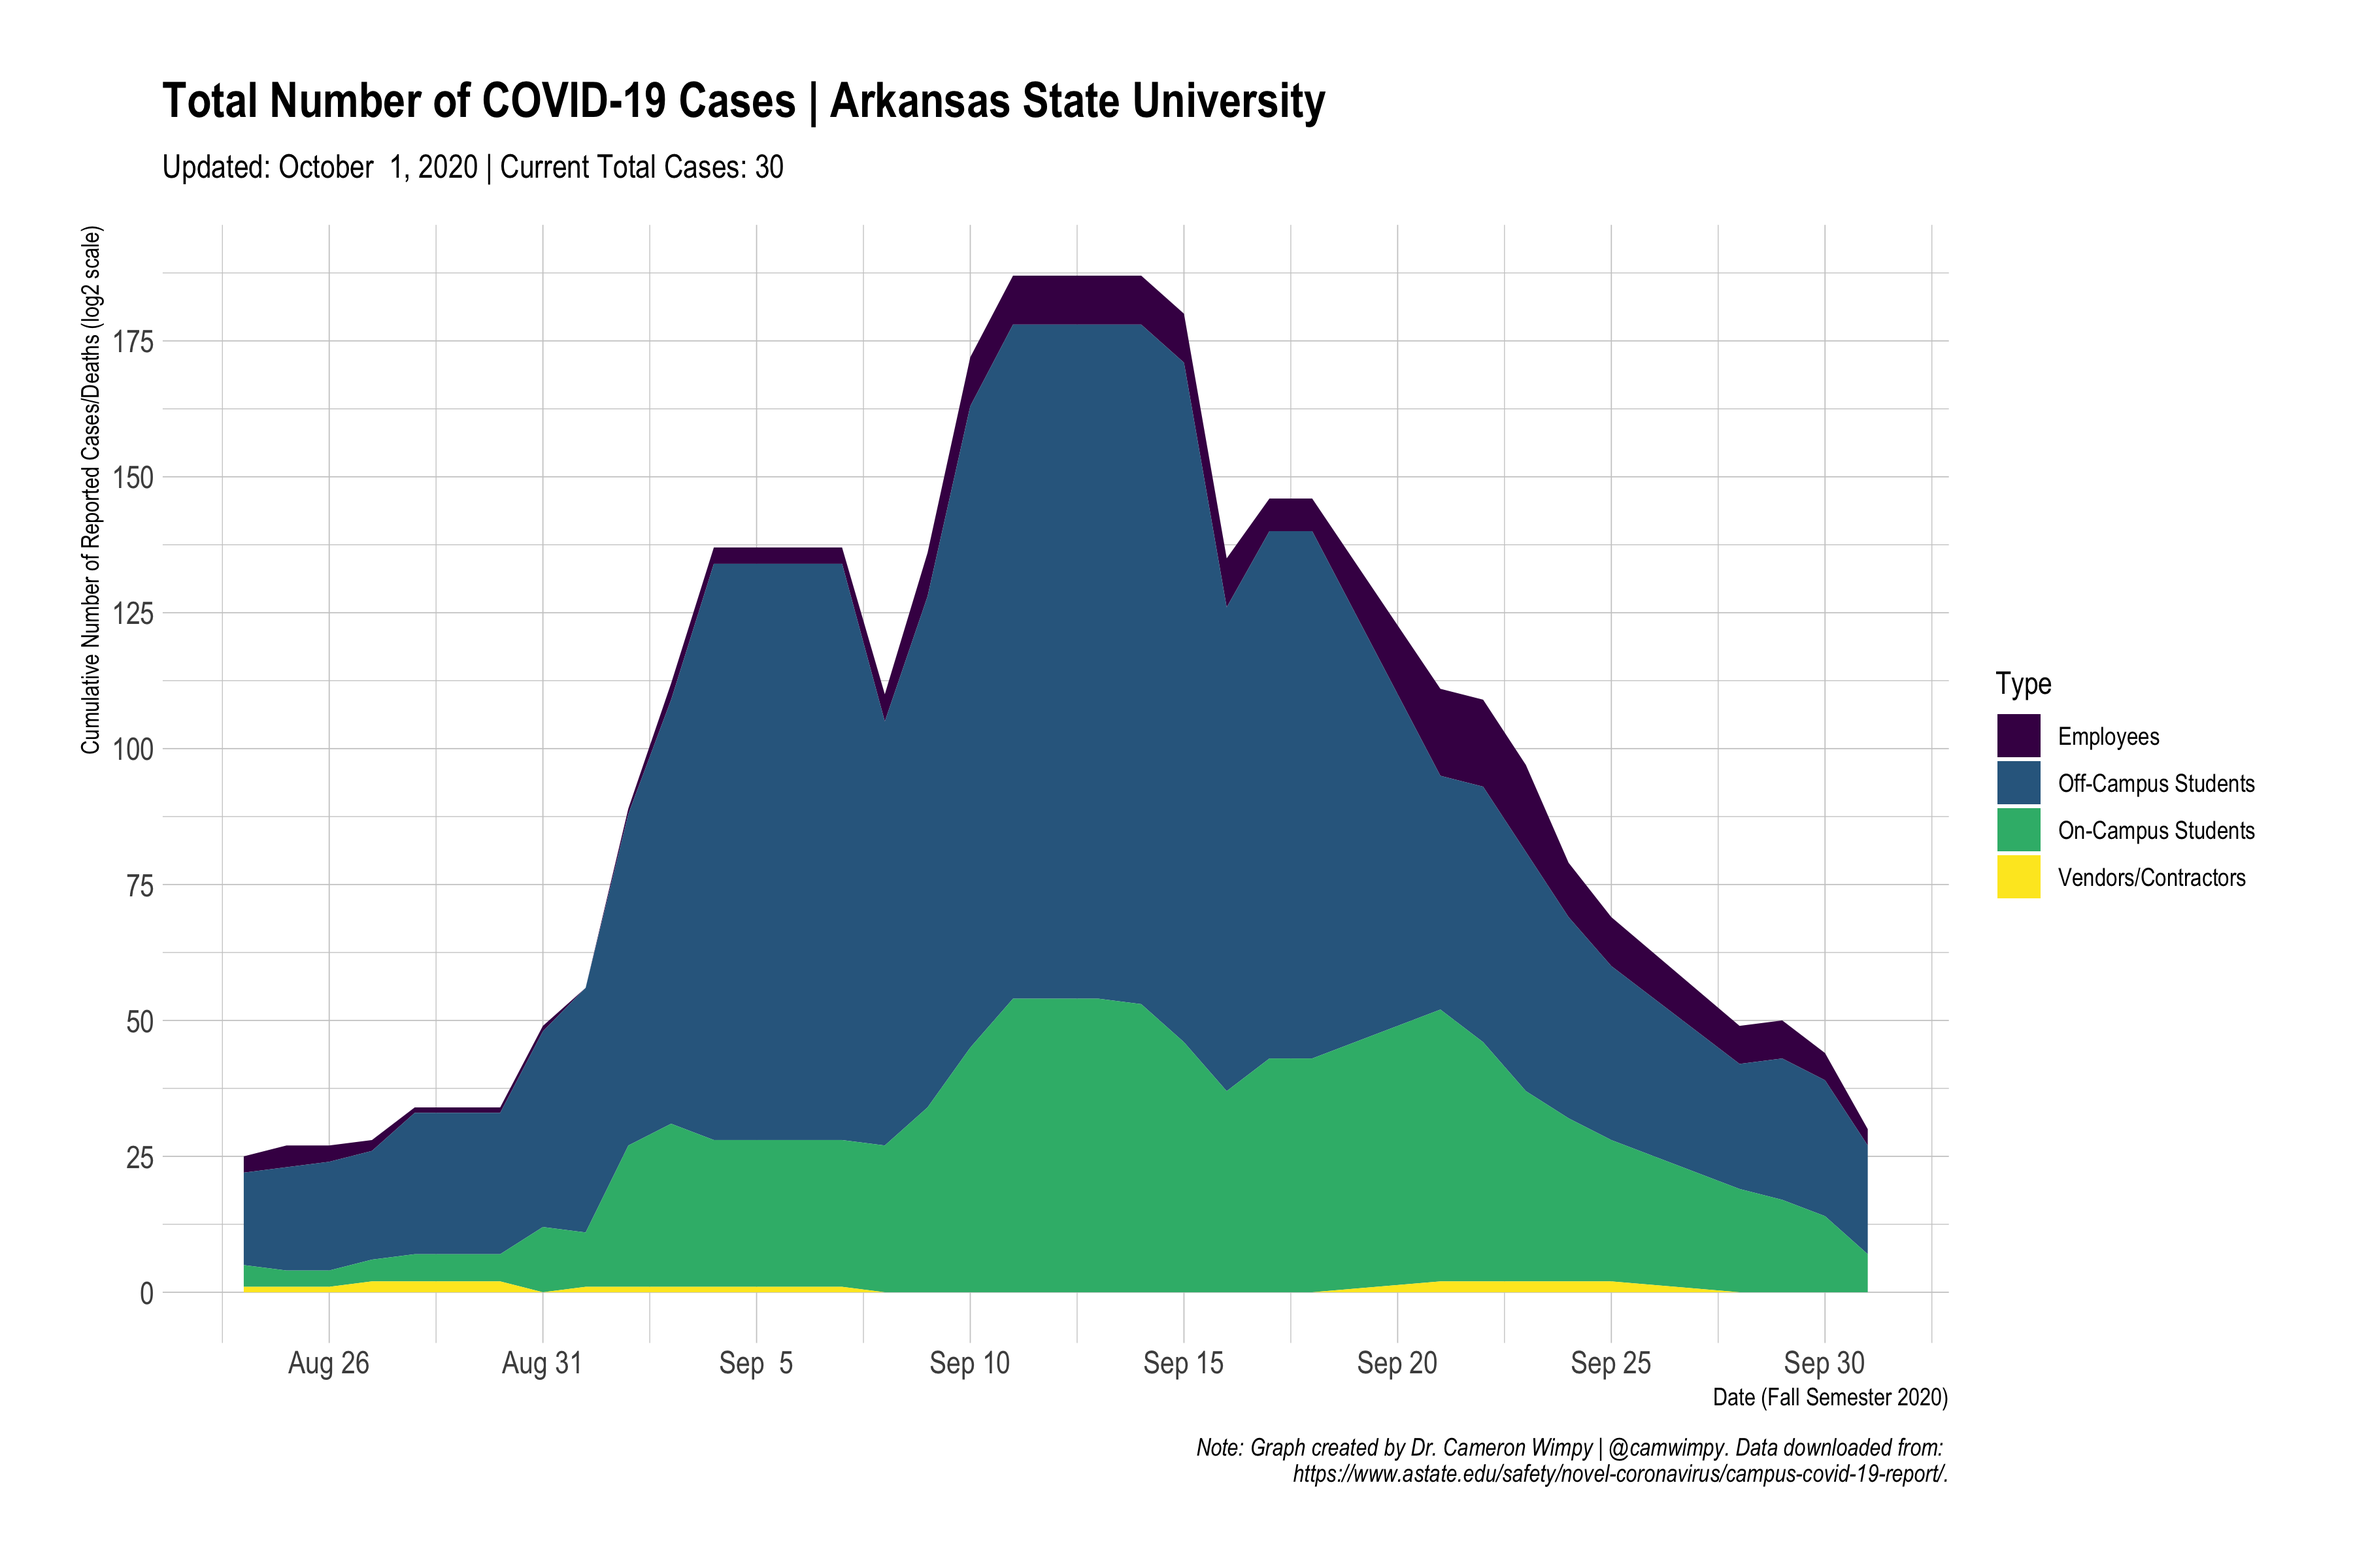
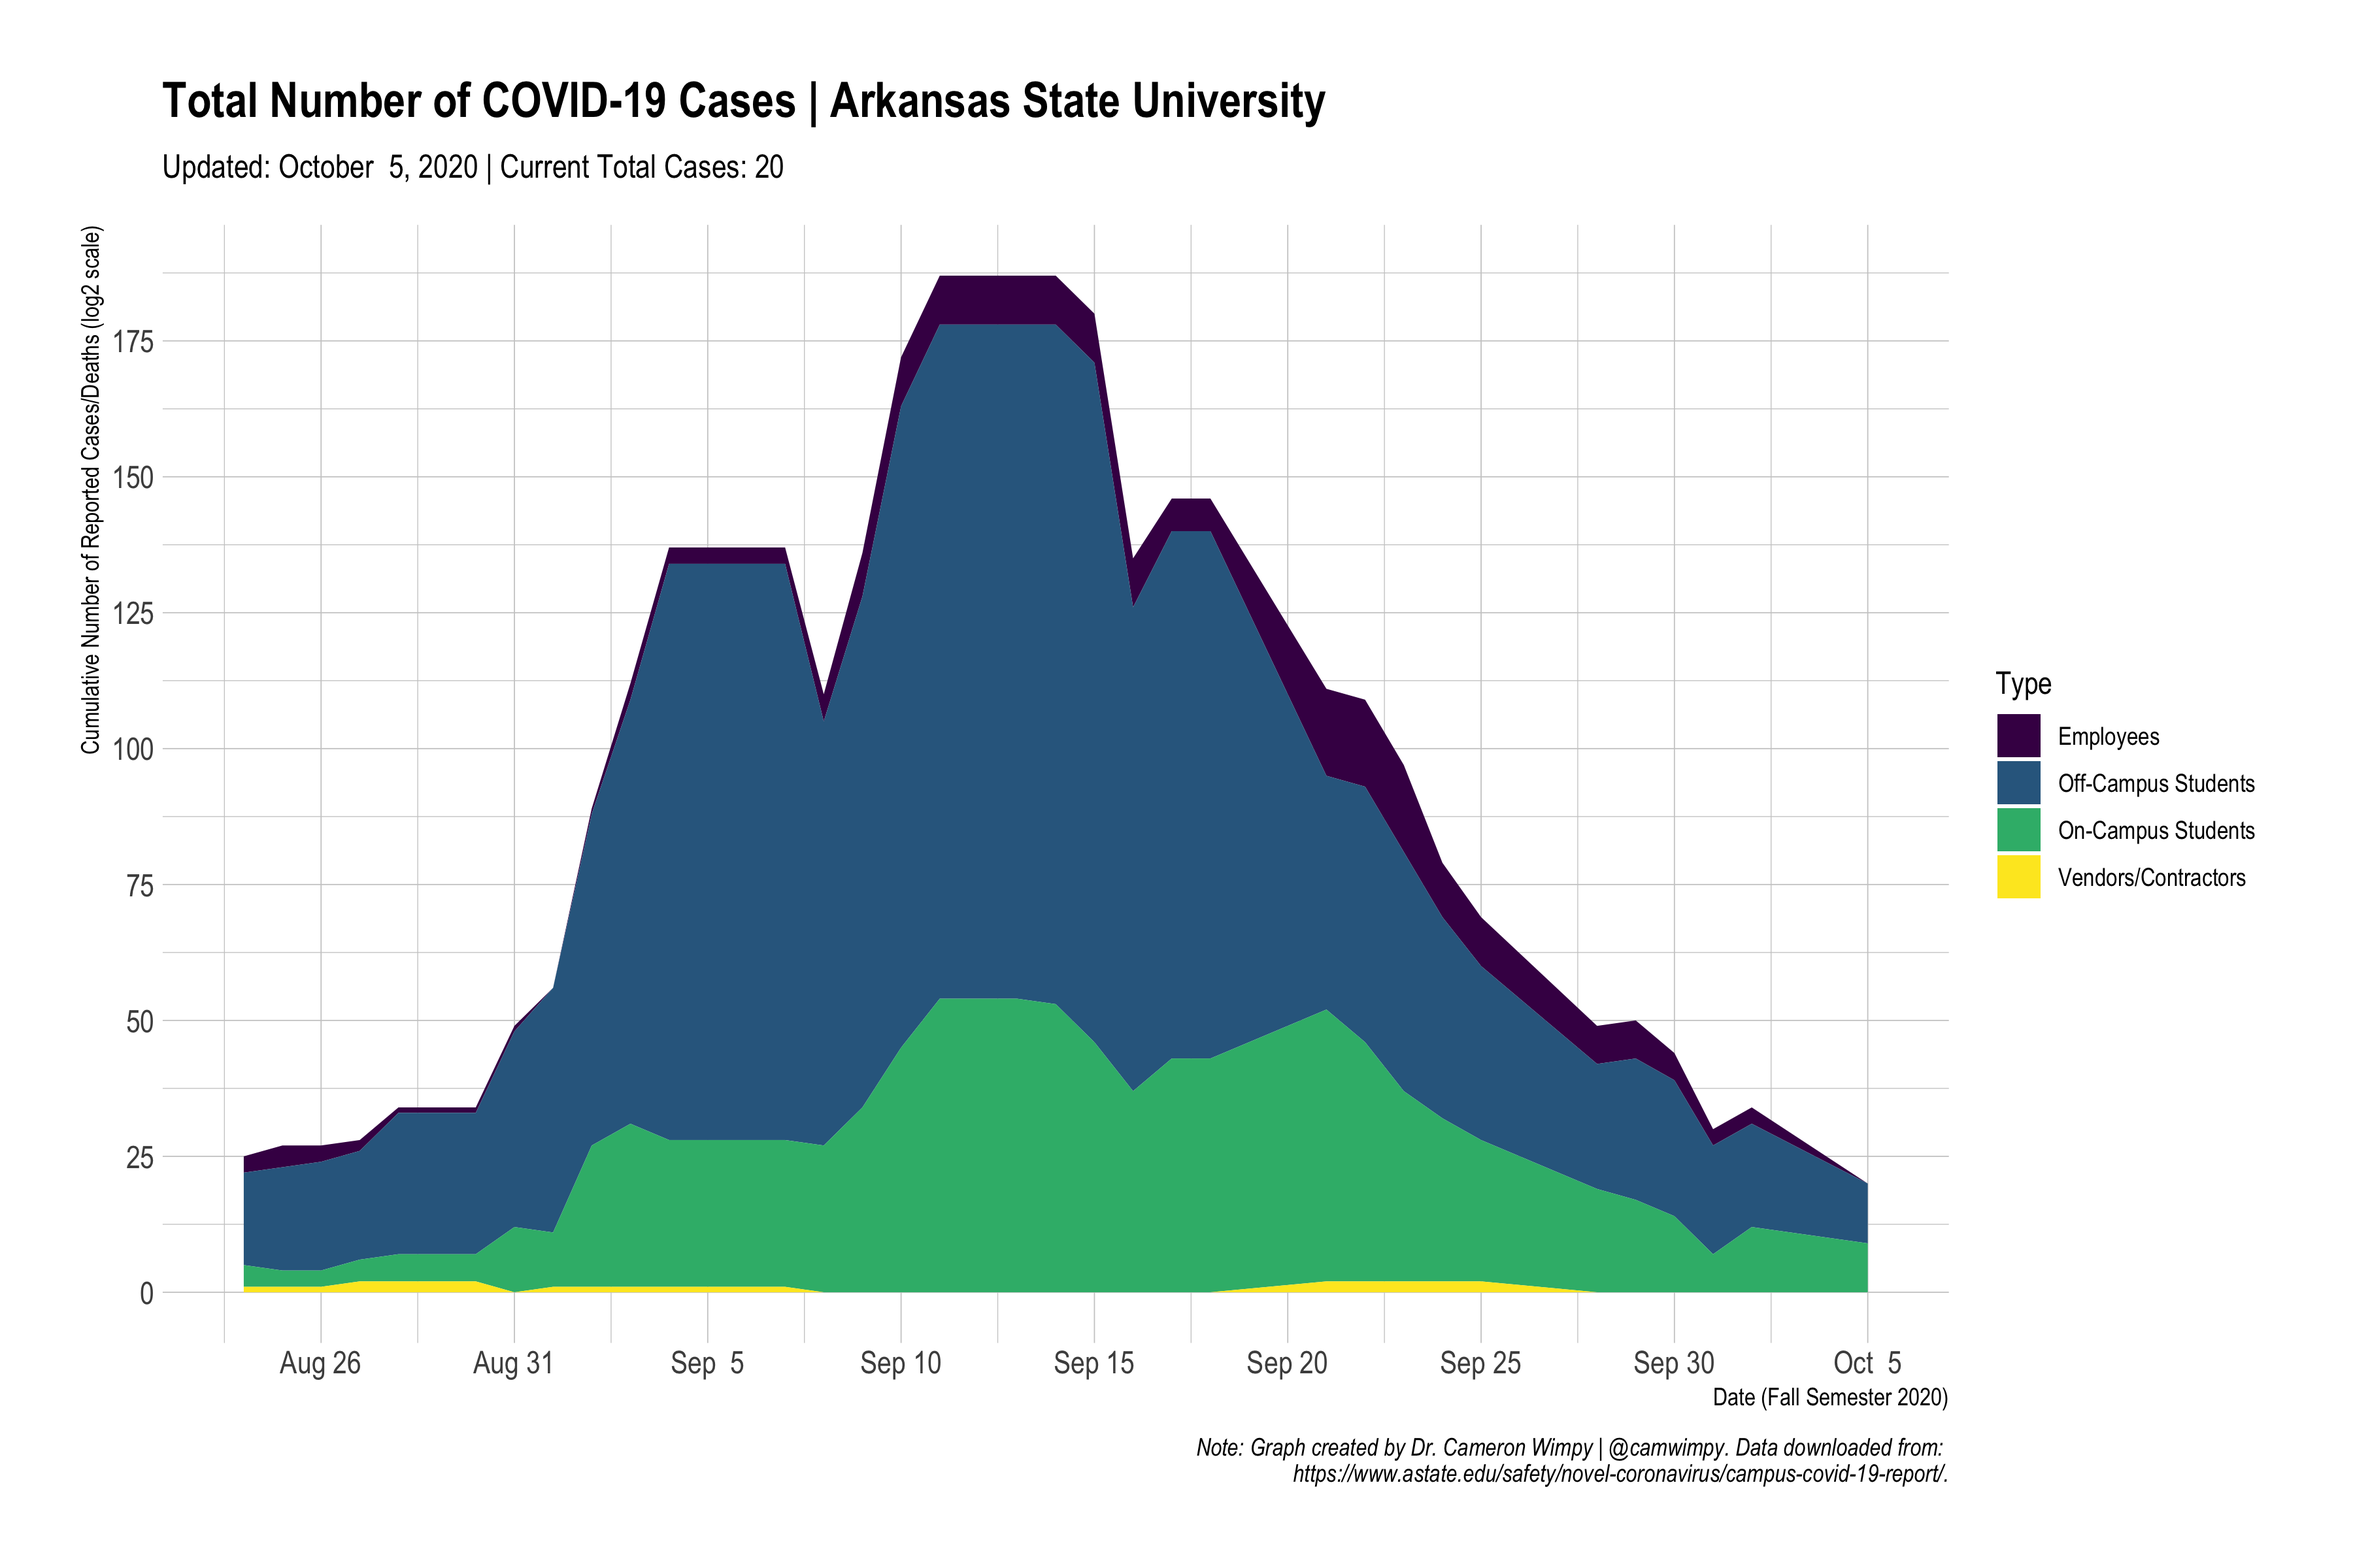
update Oct 5

diff --git a/README.md b/README.md
@@ -10,4 +10,4 @@ This repo is dedicated to making graphs to track the Covid-19 outbreak at Arkans
 
 ![](images/bar.png)
 
-## Updated: October 1, 2020
+## Updated: October 5, 2020
